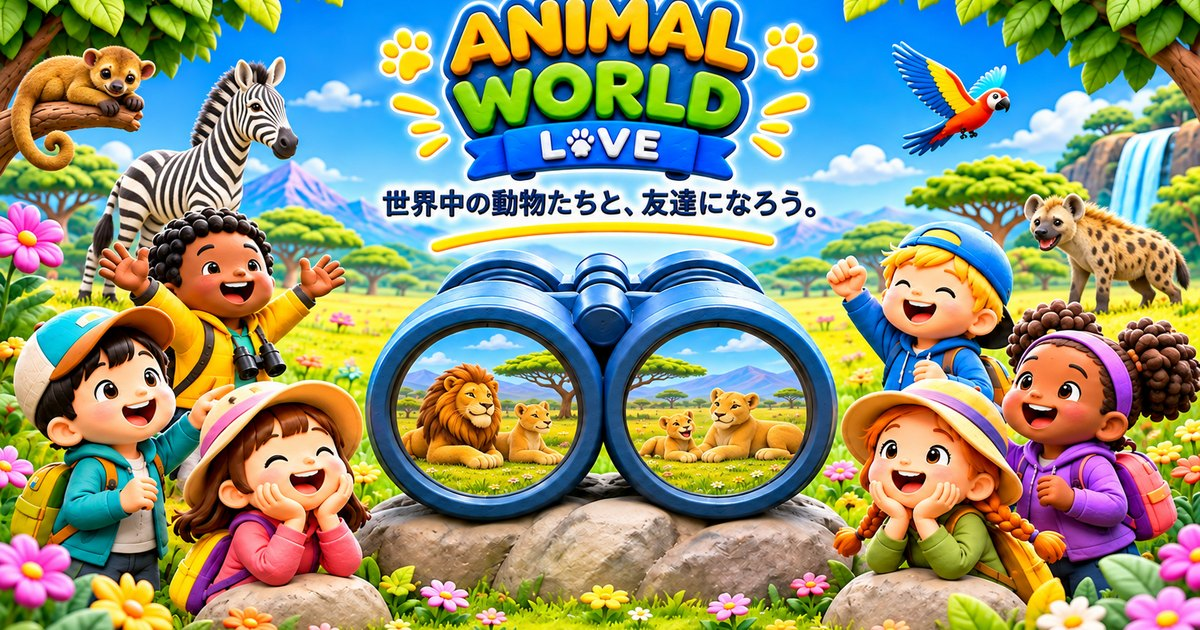
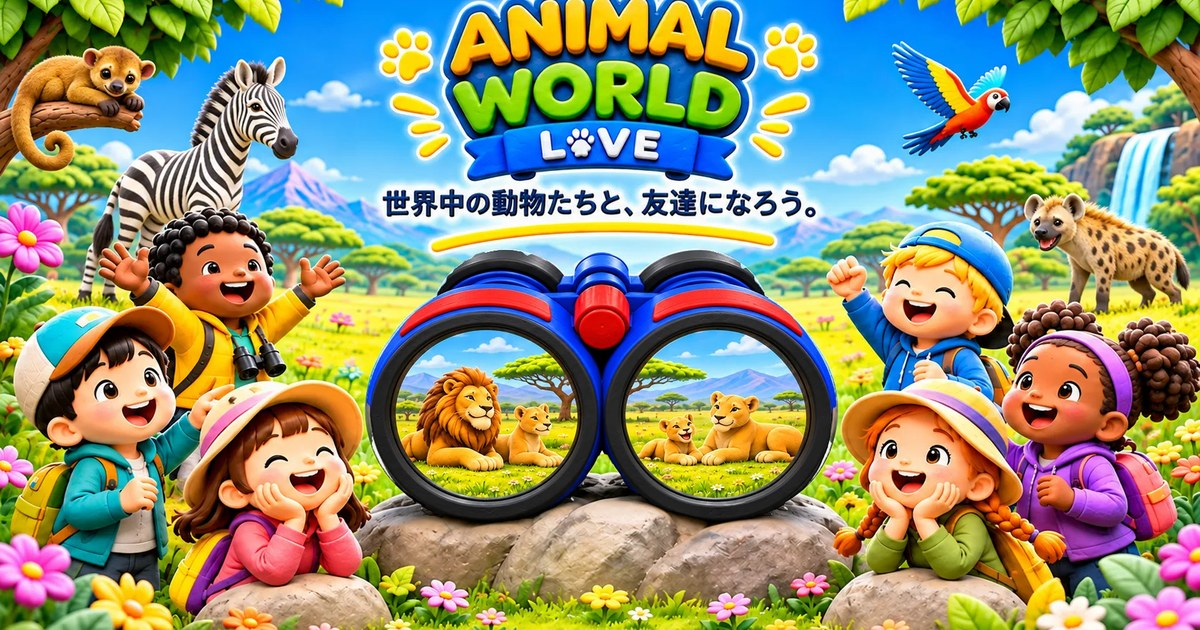
共有用の画像（og.jpg）の双眼鏡もスコップにそろえる。ホームのスマホ横の絵にスコップの双眼鏡と手・帽子の層を重ね、前と同じ切り方で 1200×630 に書き出した

Changed region(s): [[0.3083, 0.3921, 0.7092, 0.8444]]

diff --git a/DEVLOG.md b/DEVLOG.md
@@ -1156,3 +1156,9 @@
   - 実時間の録画: 4.2 秒に 229 コマ撮れていて、組み立て中も止まらない
   - ほか: `npm run build` 通過
 - 未確認: iPhone 実機
+
+## 2026-11-06 共有用の画像（og.jpg）の双眼鏡もスコップに
+- 指示（くに）: og.jpg もスコップにそろえる
+- 生成: ホームのスマホ横の絵（`kv-phone-landscape.webp`）に、スコップにした双眼鏡の層と手・帽子の層を、CSS の位置（`--bino-*`・`--front-*`）のとおりに重ね、前と同じく 1200 幅に縮めて上下を切った（切る位置は前の og.jpg と画素を比べて合わせた。上から 22px）。1200×630 の JPEG、289 KB
+- 検証: 書き出した画像を見て、ロゴと「世界中の動物たちと、友達になろう。」が切れていないこと、双眼鏡がスコップになっていること
+- 未確認: SNS ごとのカードの見え方（各サービスは古い画像をしばらく覚えていることがある）
